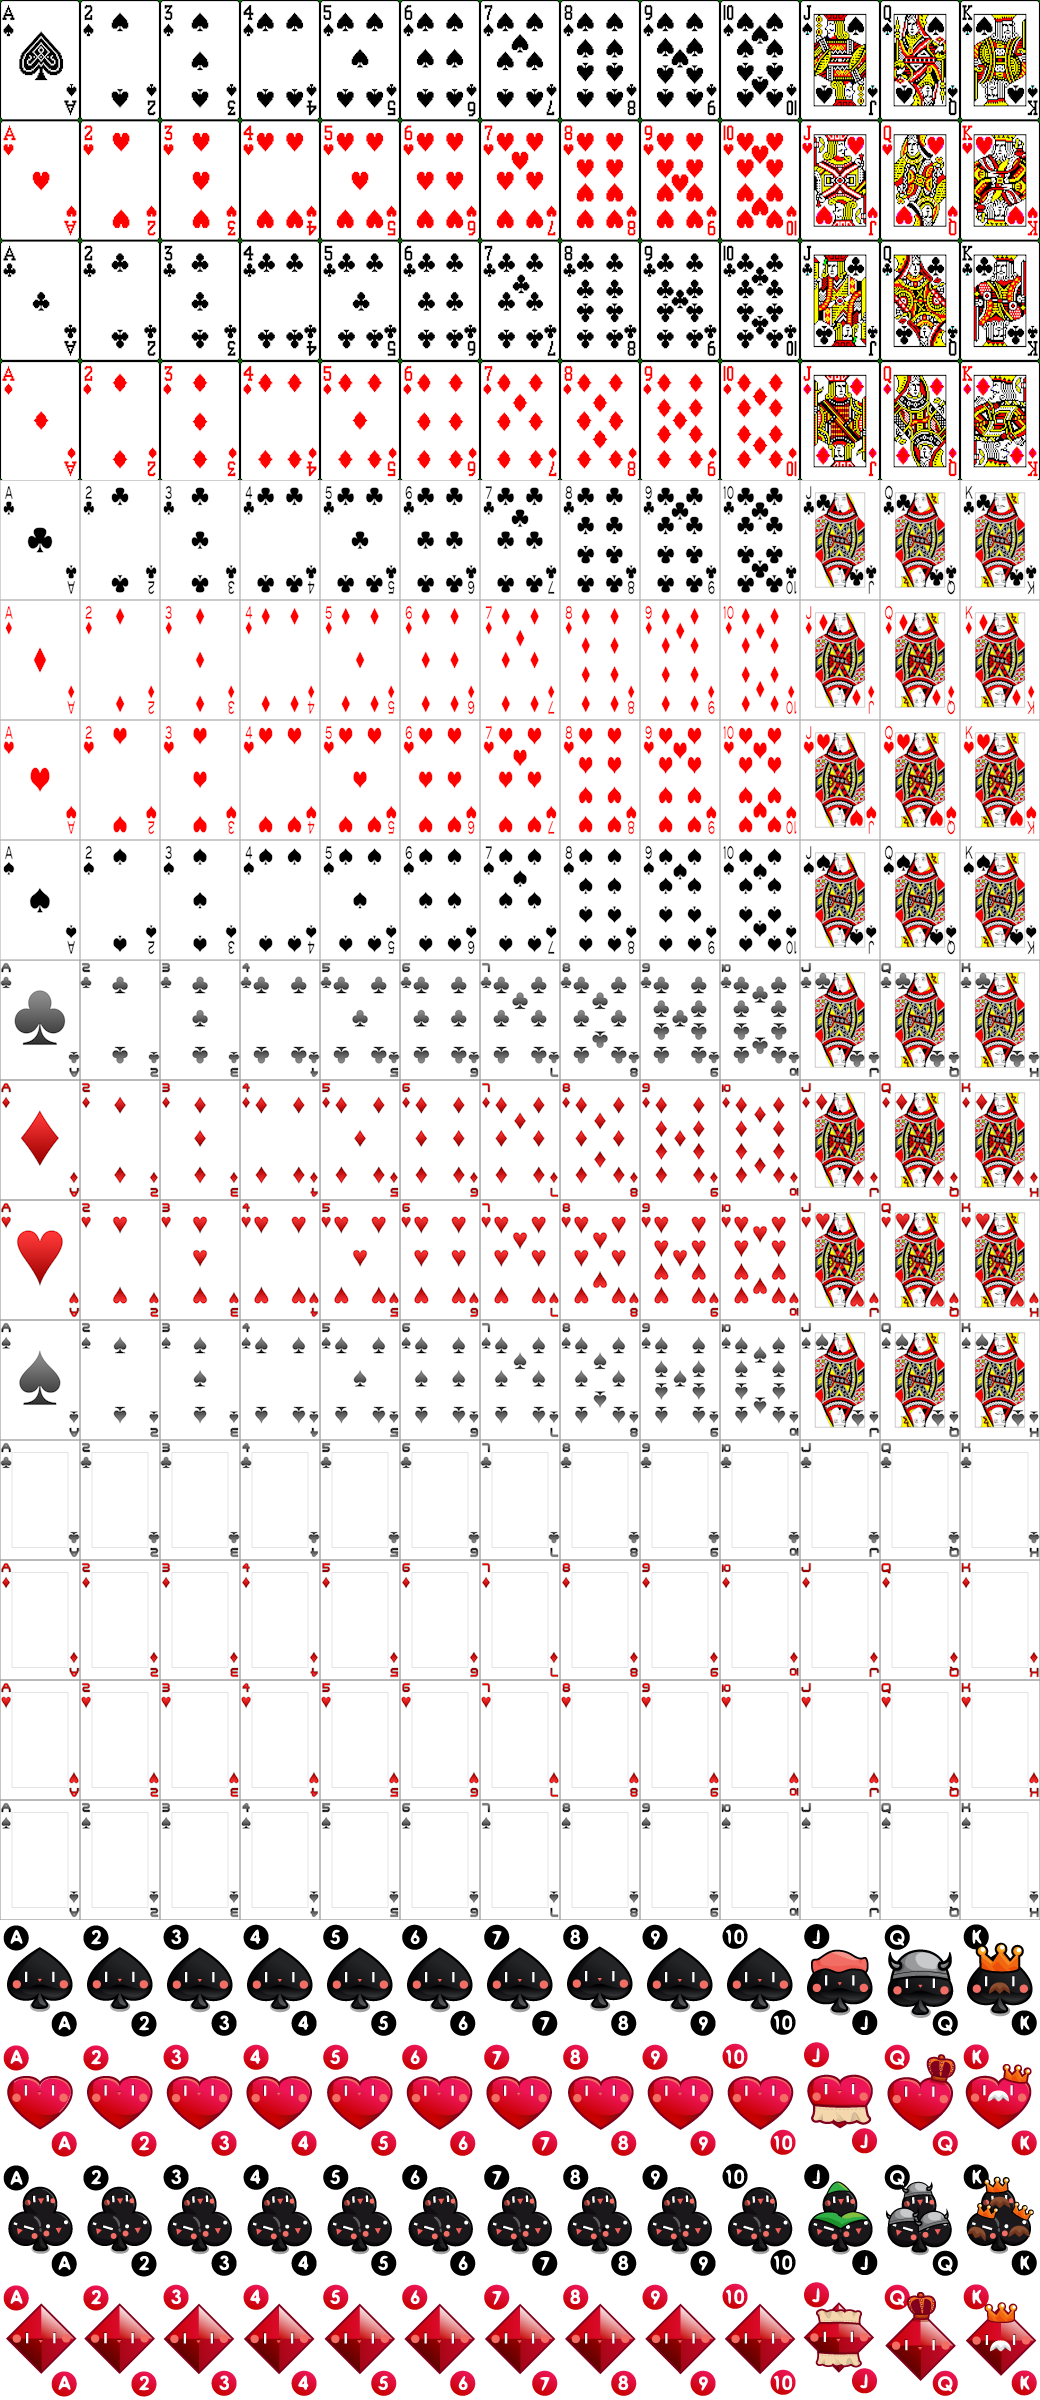
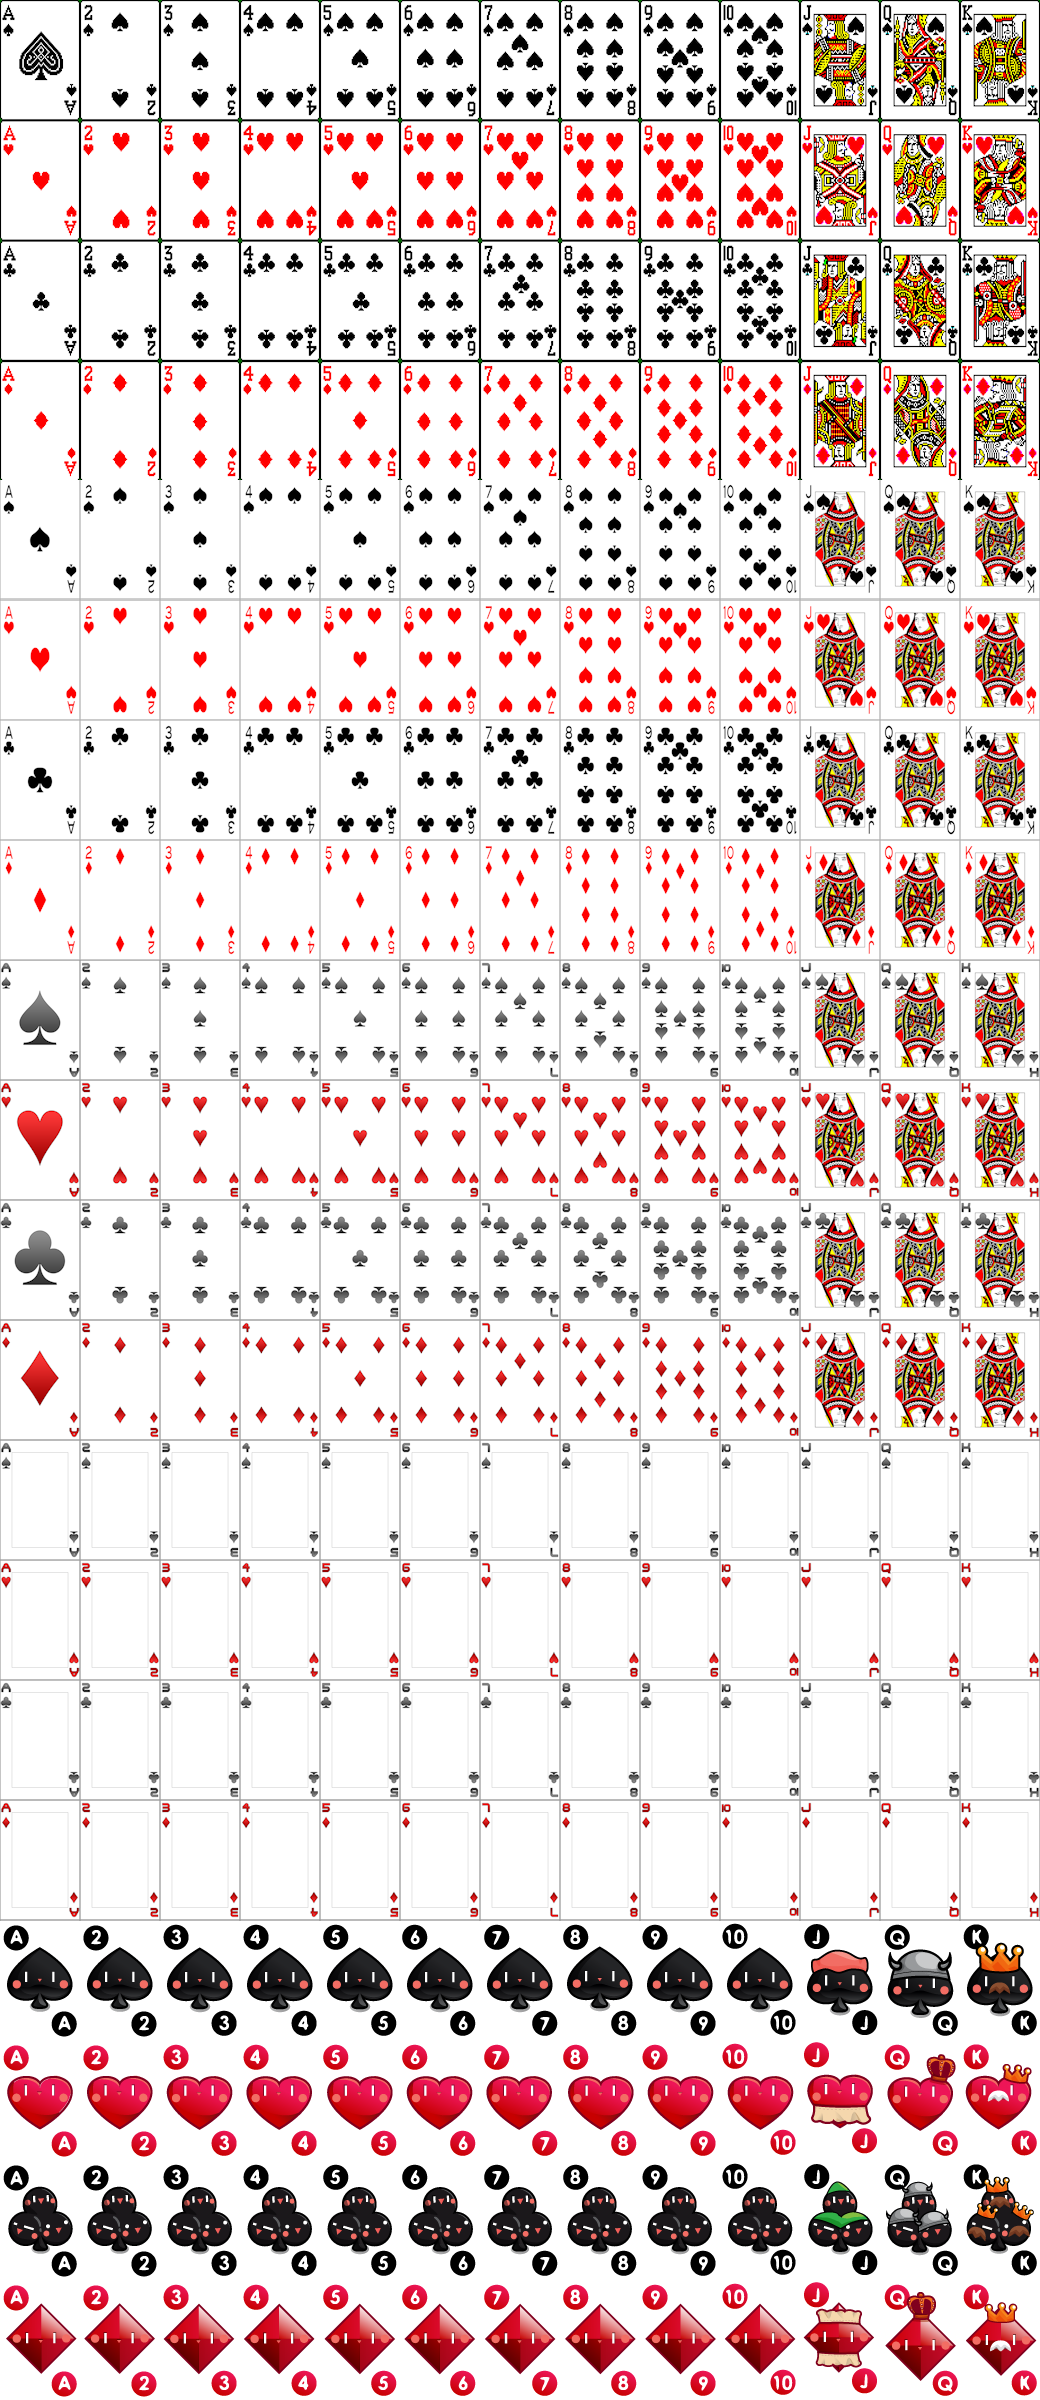
0.27.0 Add ability to change the card set

diff --git a/src/config_screen.py b/src/config_screen.py
@@ -2,7 +2,7 @@ from rich2d.models import Model, ModelGroup
 from rich2d.sprites.shapes import Rectangle
 from rich2d.sprites.text import Text
 from rich2d.models.ui import MenuBar, MenuItem
-from models import ConfigBackgroundColourModel, ConfigCardbackModel
+from models import ConfigBackgroundColourModel, ConfigCardbackModel, ConfigCardsetModel
 from game import ConfigManager
 
 
@@ -14,20 +14,25 @@ def solitaire_config_screen(game_state, config_manager):
     menu_items = [MenuItem(label="Back", on_select=back)]
     menubar_model = MenuBar(rect=(0, 0, 800, 25), menu_items=menu_items, max_menu_items=5)
 
-    background_colour_text_sprite = Text(rect=(50, 50, 700, 20), text="Background Colour",
+    cardset_text_sprite = Text(rect=(50, 50, 700, 20), text="Card Set",
+                               colour="black", font_size=25, font_name="courier",
+                               font_bold=True, horizontal_alignment=Text.HorizontalAlignment.LEFT)
+    cardset_model = ConfigCardsetModel(rect=(30, 90, 740, 120), config_manager=config_manager)
+
+    cardback_text_sprite = Text(rect=(50, 240, 700, 20), text="Card Back",
+                                 colour="black", font_size=25, font_name="courier",
+                                 font_bold=True, horizontal_alignment=Text.HorizontalAlignment.LEFT)
+    cardback_model = ConfigCardbackModel(rect=(30, 280, 740, 100), config_manager=config_manager)
+
+    background_colour_text_sprite = Text(rect=(50, 420, 700, 20), text="Background Colour",
                        colour="black", font_size=25, font_name="courier",
                        font_bold=True, horizontal_alignment=Text.HorizontalAlignment.LEFT)
 
     background_colour_model_width = 100 + len(ConfigManager.background_colour_options()) * 50
-    background_colour_model = ConfigBackgroundColourModel(rect=(30, 90, background_colour_model_width, 50),
+    background_colour_model = ConfigBackgroundColourModel(rect=(30, 460, background_colour_model_width, 50),
                                                           config_manager=config_manager)
 
-    cardback_text_sprite = Text(rect=(50, 175, 700, 20), text="Card Back",
-                                 colour="black", font_size=25, font_name="courier",
-                                 font_bold=True, horizontal_alignment=Text.HorizontalAlignment.LEFT)
-    cardback_model = ConfigCardbackModel(rect=(30, 215, 740, 100), config_manager=config_manager)
-
     background_rectangle = Rectangle(rect=(0, 0, 800, 600), colour="white")
-    sprites = [background_rectangle, background_colour_text_sprite, cardback_text_sprite]
+    sprites = [background_rectangle, cardset_text_sprite, cardback_text_sprite, background_colour_text_sprite]
     static_model = Model(sprites=sprites)
-    return ModelGroup(models=[static_model, menubar_model, background_colour_model, cardback_model])
+    return ModelGroup(models=[static_model, menubar_model, cardset_model, cardback_model, background_colour_model])

diff --git a/src/play_screen.py b/src/play_screen.py
@@ -10,23 +10,16 @@ from models import SelectionModel, DeckCollectionModel, DrawCollectionModel,\
 
 
 def solitaire_play_screen(game_state, config_manager):
-    deck_collection_background_image = Image.load_from_file("resources/deck_background.png")
-    card_collection_background_image = Image.load_from_file("resources/empty_collection.png")
-
     game_manager = GameManager()
-
     selection_model = SelectionModel(selection_manager=game_manager.get_selection_manager(),
                                      config_manager=config_manager)
     deck_collection_model = DeckCollectionModel(rect=(30, 50, 80, 120),
-                                                background_image=deck_collection_background_image,
                                                 deck_draw_manager=game_manager.get_deck_draw_manager(),
                                                 config_manager=config_manager)
     draw_collection_model = DrawCollectionModel(rect=(140, 50, 80, 120),
                                                 selection_manager=game_manager.get_selection_manager(),
                                                 deck_draw_manager=game_manager.get_deck_draw_manager(),
                                                 config_manager=config_manager)
-
-
     suit_collection_models = []
     suit_card_collections = game_manager.get_suit_card_collections()
     suit_collection_rects = [(360, 50, 80, 120), (470, 50, 80, 120), (580, 50, 80, 120), (690, 50, 80, 120)]
@@ -36,9 +29,7 @@ def solitaire_play_screen(game_state, config_manager):
         suit_collection_models.append(SuitCollectionModel(suit_card_collection=suit_card_collection,
                                                           rect=rect,
                                                           selection_manager=game_manager.get_selection_manager(),
-                                                          background_image=card_collection_background_image,
                                                           config_manager=config_manager))
-
     klondike_pile_models = []
     klondike_card_collections = game_manager.get_klondike_card_collections()
     klondike_pile_rects = [(30, 200, 80, 120), (140, 200, 80, 120), (250, 200, 80, 120),
@@ -50,9 +41,7 @@ def solitaire_play_screen(game_state, config_manager):
         klondike_pile_models.append(KlondikeCollectionModel(klondike_card_collection=klondike_card_collection,
                                                             rect=rect,
                                                             selection_manager=game_manager.get_selection_manager(),
-                                                            background_image=card_collection_background_image,
                                                             config_manager=config_manager))
-
     you_win_model = YouWinModel(rect=(30, 200, 740, 370), game_manager=game_manager)
 
     def new_game():

diff --git a/src/models/config_cardset_choice_model.py b/src/models/config_cardset_choice_model.py
@@ -1,0 +1,53 @@
+from pygame import Rect
+from rich2d.sprites.shapes import Rectangle
+from rich2d.sprites.images import ImageSprite
+from rich2d.models import Model
+from rich2d.elements import Element
+from rich2d.handlers import MouseHandler
+from game import Card
+
+class ConfigCardsetChoiceModel(Model):
+    def __init__(self, rect=None, index=None, config_manager=None):
+        if rect is None:
+            raise RuntimeError("ConfigCardsetChoiceModel rect cannot be None")
+        if index is None:
+            raise RuntimeError("ConfigCardsetChoiceModel index cannot be None")
+        if config_manager is None:
+            raise RuntimeError("ConfigCardsetChoiceModel config_manager cannot be None")
+        self._rect = Rect(rect)
+        self._inner_rect = self._rect.inflate(-10, -10)
+        self._index = index
+
+        outer_rectangle = Rectangle(rect=self._rect)
+        cardset_sprite = ImageSprite(image=config_manager.get_card_image_at(Card(rank=1, suit=Card.Suit.SPADES), index),
+                                     rect=self._inner_rect)
+
+        def on_left_click():
+            config_manager.set_cardset_index(index)
+            return
+        mouse_handler = MouseHandler(rect=self._rect, on_left_mouse_click=on_left_click)
+
+        def sync_rects():
+            self._inner_rect.update(self._rect.inflate(-10, -10))
+            outer_rectangle.get_rect().update(self._rect)
+            cardset_sprite.get_rect().update(self._inner_rect)
+            mouse_handler.get_rect().update(self._rect)
+            return
+        sync_rect_element = Element(on_update=sync_rects)
+
+        def set_outer_colour():
+            if index == config_manager.get_cardset_index():
+                outer_rectangle.set_colour((50, 50, 50))
+            else:
+                outer_rectangle.set_colour((175, 175, 175))
+            return
+        outer_colour_element = Element(on_update=set_outer_colour)
+
+        sprites = [outer_rectangle, cardset_sprite]
+        elements = [sync_rect_element, outer_colour_element]
+        handlers = [mouse_handler]
+        super().__init__(sprites=sprites, elements=elements, handlers=handlers)
+        return
+
+    def get_rect(self):
+        return self._rect

diff --git a/src/models/klondike_collection_model.py b/src/models/klondike_collection_model.py
@@ -7,15 +7,13 @@ from sprites import CardSprite, CardCollectionBackgroundSprite
 
 class KlondikeCollectionModel(Model):
     def __init__(self, rect=None, selection_manager=None,
-                 klondike_card_collection=None, background_image=None, config_manager=None):
+                 klondike_card_collection=None, config_manager=None):
         if rect is None:
             raise RuntimeError("KlondikeCollectionModel rect cannot be None")
         if selection_manager is None:
             raise RuntimeError("KlondikeCollectionModel selection_manager cannot be None")
         if klondike_card_collection is None:
             raise RuntimeError("KlondikeCollectionModel klondike_card_collection cannot be None")
-        if background_image is None:
-            raise RuntimeError("KlondikeCollectionModel background_image cannot be None")
         if config_manager is None:
             raise RuntimeError("KlondikeCollectionModel config_manager cannot be None")
         self._pile = Pile(rect=rect)
@@ -23,7 +21,8 @@ class KlondikeCollectionModel(Model):
                                          direction=PileElement.PileElementDirection.DOWN,
                                          spacing=20)
         self._background_sprite = CardCollectionBackgroundSprite(card_collection_sprite=self._pile,
-                                                                 background_image=background_image)
+                                                                 background_image=config_manager.\
+                                                                 get_card_collection_background_image())
         self._on_click_handlers_map = []
         self._klondike_card_collection = klondike_card_collection
         self._selection_manager = selection_manager

diff --git a/src/game/config_manager.py b/src/game/config_manager.py
@@ -1,4 +1,4 @@
-from rich2d.sprites.images import ImageSheet
+from rich2d.sprites.images import ImageSheet, Image
 from .card import Card
 
 class ConfigManager:
@@ -10,6 +10,8 @@ class ConfigManager:
     }
 
     def __init__(self):
+        self._deck_collection_background_image = Image.load_from_file("resources/deck_background.png")
+        self._card_collection_background_image = Image.load_from_file("resources/empty_collection.png")
         self._background_colour = "darkgreen"
         self._cardback_image_sheet = ImageSheet(file_name="resources/cardbacks.png",
                                                 image_width=80, image_height=120)
@@ -17,7 +19,14 @@ class ConfigManager:
                                                image_width=80, image_height=120)
         self._cardback_index = 0
         self._cardset_index = 0
+
         return
+
+    def get_deck_collection_background_image(self):
+        return self._deck_collection_background_image
+
+    def get_card_collection_background_image(self):
+        return self._card_collection_background_image
 
     def get_background_colour(self):
         return self._background_colour
@@ -53,6 +62,12 @@ class ConfigManager:
 
     def get_card_image(self, card=None):
         return self.get_card_image_at(card, self._cardset_index)
+
+    def get_maximum_cardset_index(self):
+        number_of_card_images = len(self._cardset_image_sheet.get_all_images())
+        number_of_cards_in_a_deck = len(Card.get_all_suits()) * len(Card.get_all_ranks())
+        maximum_index = number_of_card_images // number_of_cards_in_a_deck
+        return maximum_index
 
     def get_cardset_index(self):
         return self._cardset_index

diff --git a/src/models/suit_collection_model.py b/src/models/suit_collection_model.py
@@ -5,15 +5,13 @@ from sprites import CardCollectionSprite, CardCollectionBackgroundSprite
 
 class SuitCollectionModel(Model):
     def __init__(self, rect=None, selection_manager=None,
-                 suit_card_collection=None, background_image=None, config_manager=None):
+                 suit_card_collection=None, config_manager=None):
         if rect is None:
             raise RuntimeError("SuitCollectionModel rect cannot be None")
         if selection_manager is None:
             raise RuntimeError("SuitCollectionModel selection_manager cannot be None")
         if suit_card_collection is None:
             raise RuntimeError("SuitCollectionModel suit_card_collection cannot be None")
-        if background_image is None:
-            raise RuntimeError("SuitCollectionModel background_image cannot be None")
         if config_manager is None:
             raise RuntimeError("SuitCollectionModel config_manager cannot be None")
 
@@ -23,7 +21,7 @@ class SuitCollectionModel(Model):
                                                       config_manager=config_manager)
         suit_collection_background_sprite = CardCollectionBackgroundSprite(
             card_collection_sprite=suit_collection_sprite,
-            background_image=background_image)
+            background_image=config_manager.get_card_collection_background_image())
 
         def on_click():
             selection_manager.select_suit_collection(suit_card_collection)

diff --git a/src/models/config_cardset_model.py b/src/models/config_cardset_model.py
@@ -1,0 +1,29 @@
+from pygame import Rect
+from rich2d.models import Model, ModelGroup
+from rich2d.elements.pile import Pile, PileElement
+from .config_cardset_choice_model import ConfigCardsetChoiceModel
+
+class ConfigCardsetModel(ModelGroup):
+    def __init__(self, rect=None, config_manager=None):
+        if rect is None:
+            raise RuntimeError("ConfigCardsetModel rect cannot be None")
+        if config_manager is None:
+            raise RuntimeError("ConfigCardsetModel config_manager cannot be None")
+
+        rect = Rect(rect)
+        number_of_choices = config_manager.get_maximum_cardset_index()
+        rect_width = rect.w // number_of_choices
+        pile = Pile(rect=Rect((rect.x, rect.y, rect_width, rect.h)))
+        pile_element = PileElement(pile=pile, direction=PileElement.PileElementDirection.RIGHT, spacing=rect_width)
+
+        choice_models = []
+        for i in range(number_of_choices):
+            choice_model = ConfigCardsetChoiceModel(rect=(0, 0, 0, 0), index=i,
+                                                     config_manager=config_manager)
+            choice_models.append(choice_model)
+            pile.add(choice_model)
+
+        pile_model = Model(elements=[pile_element])
+        models = [pile_model] + choice_models
+        super().__init__(models=models)
+        return

diff --git a/src/models/deck_collection_model.py b/src/models/deck_collection_model.py
@@ -4,12 +4,9 @@ from sprites import CardCollectionSprite, CardCollectionBackgroundSprite
 
 
 class DeckCollectionModel(Model):
-    def __init__(self, rect=None, background_image=None,
-                 deck_draw_manager=None, config_manager=None):
+    def __init__(self, rect=None, deck_draw_manager=None, config_manager=None):
         if rect is None:
             raise RuntimeError("DeckCollectionModel rect cannot be None")
-        if background_image is None:
-            raise RuntimeError("DeckCollectionModel background_image cannot be None")
         if deck_draw_manager is None:
             raise RuntimeError("DeckCollectionModel deck_draw_manager cannot be None")
         if config_manager is None:
@@ -22,7 +19,7 @@ class DeckCollectionModel(Model):
                                                       config_manager=config_manager)
         deck_collection_background_sprite = CardCollectionBackgroundSprite(
             card_collection_sprite=deck_collection_sprite,
-            background_image=background_image)
+            background_image=config_manager.get_deck_collection_background_image())
 
         def on_click():
             deck_draw_manager.draw_or_refill_deck()

diff --git a/src/models/__init__.py b/src/models/__init__.py
@@ -8,3 +8,5 @@ from .config_background_colour_choice_model import ConfigBackgroundColourChoiceM
 from .config_background_colour_model import ConfigBackgroundColourModel
 from .config_cardback_choice_model import ConfigCardbackChoiceModel
 from .config_cardback_model import ConfigCardbackModel
+from .config_cardset_choice_model import ConfigCardsetChoiceModel
+from .config_cardset_model import ConfigCardsetModel
